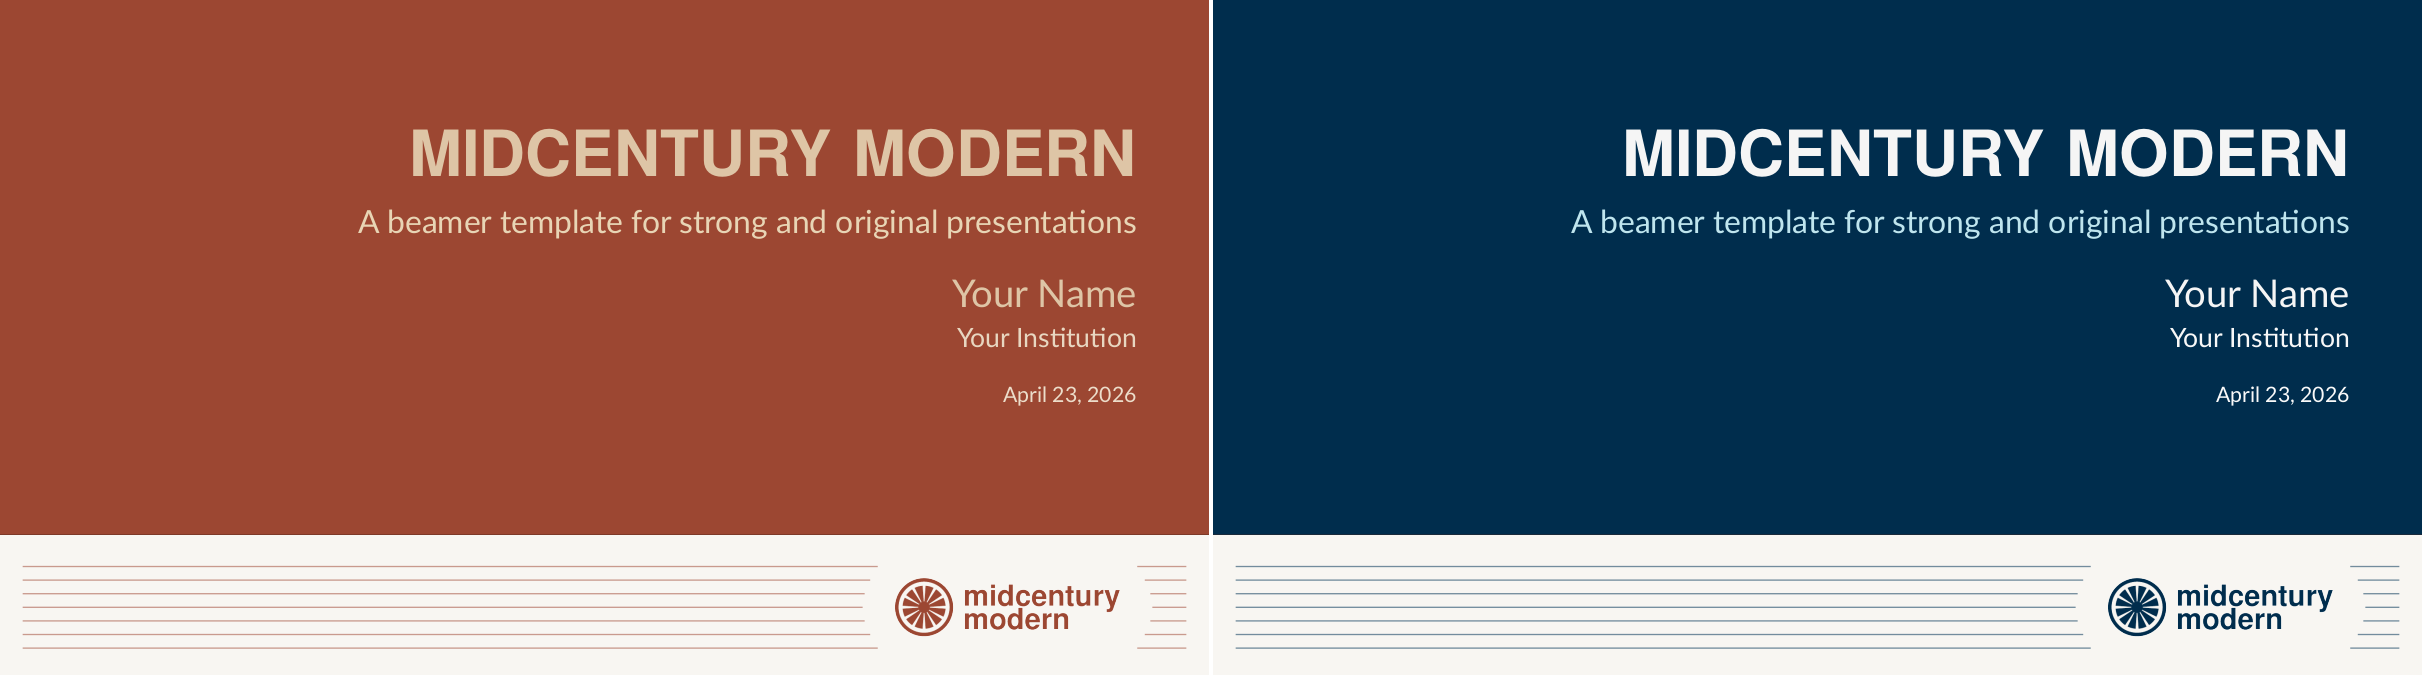
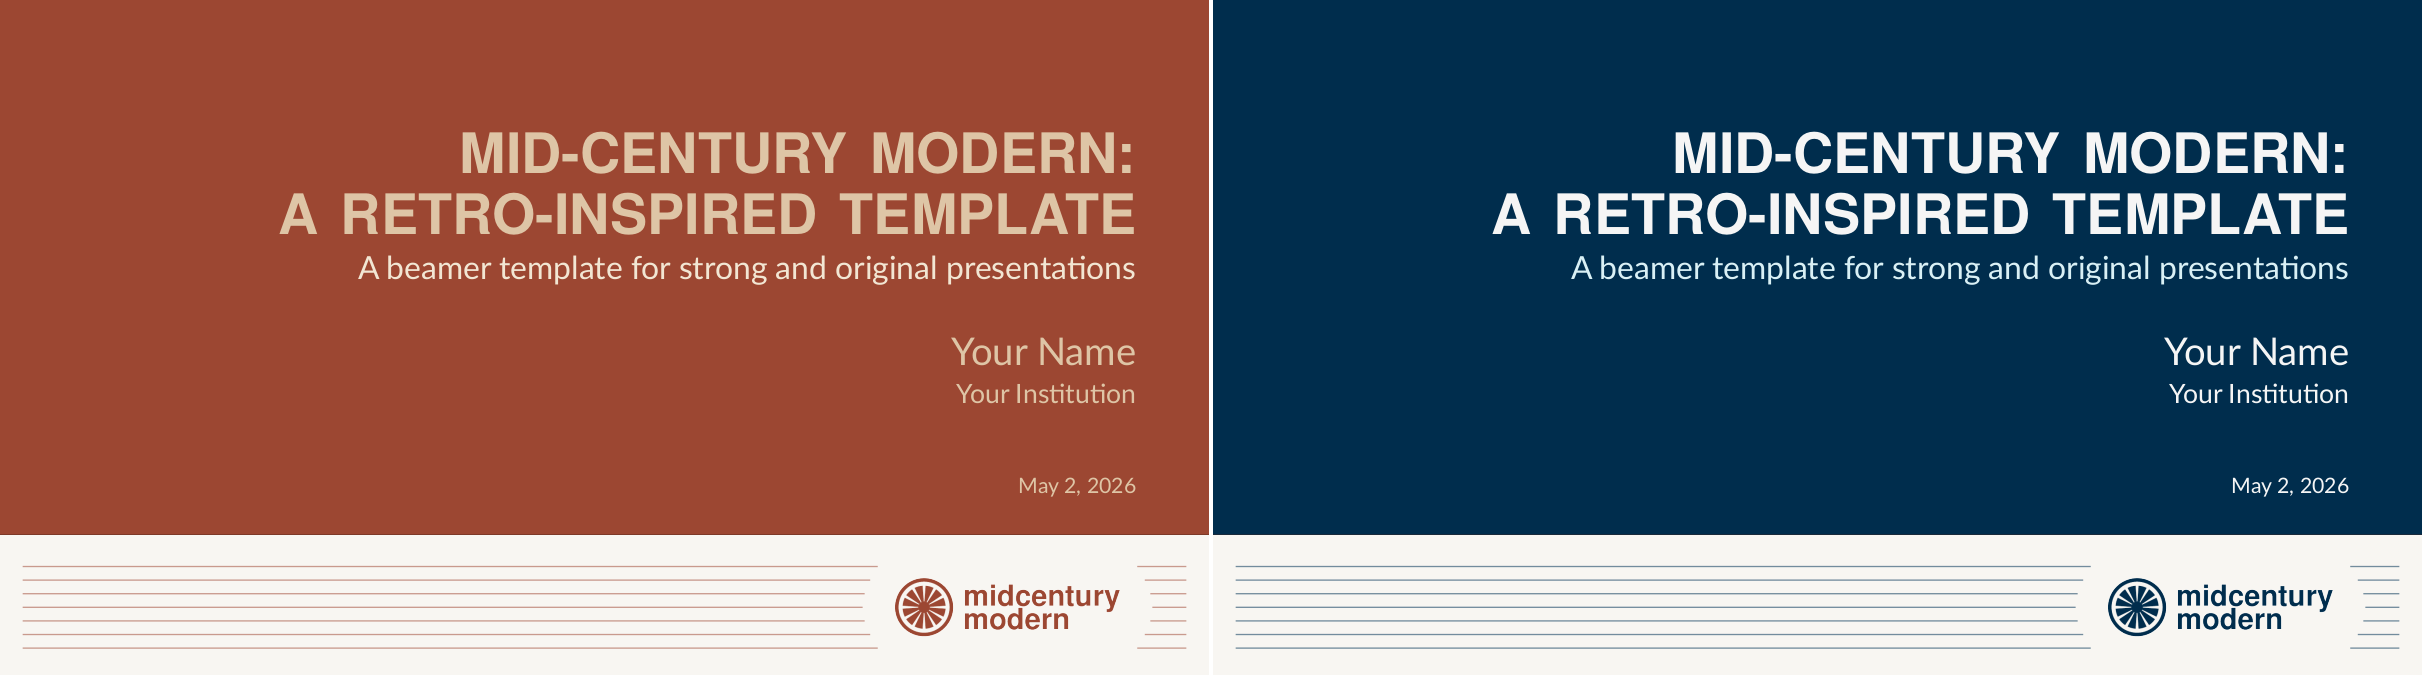
improve title page layout

diff --git a/demo.tex b/demo.tex
@@ -11,13 +11,14 @@
 % --- Theme selection (comment/uncomment to switch) ---
 \mcmTheme{Kraft}
 % \mcmTheme{DeepBlue}
- 
+ % 
 % --- Metadata ---
-\title{MidCentury Modern}
+\title{Mid-Century Modern:\\A Retro-Inspired Template}
 \subtitle{A beamer template for strong and original presentations}
 \author{Your Name}
 \institute{Your Institution}
 \date{\today}
+
 
 \titlegraphic{
   \begin{minipage}{0.21\linewidth}
